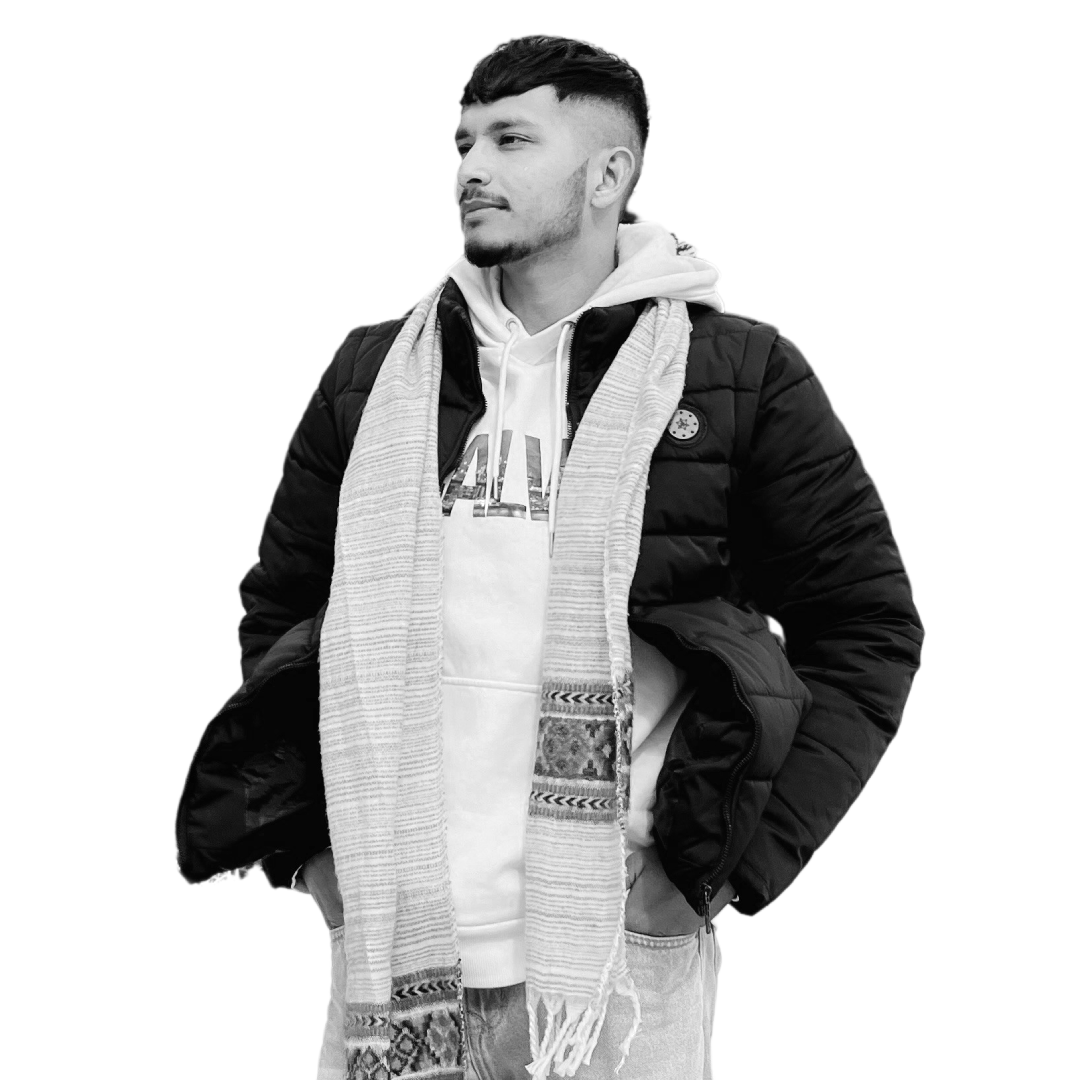
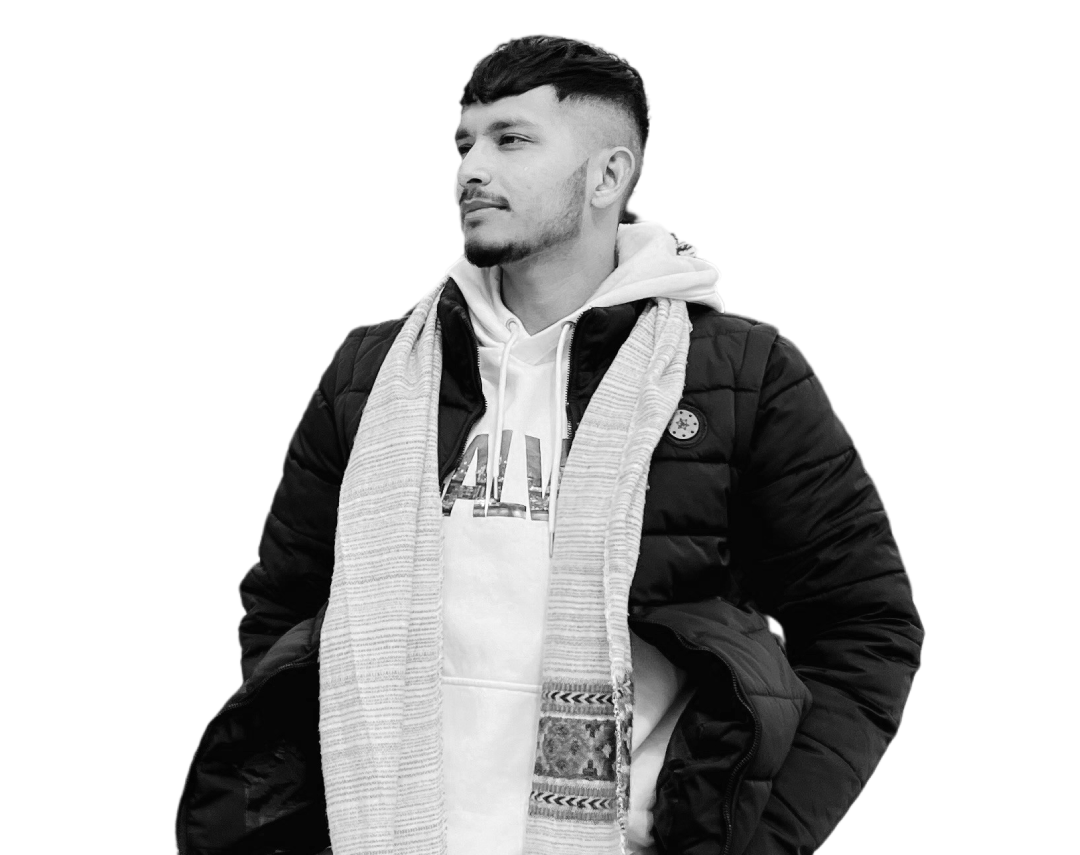
Desktop version ready

Changed region(s): [[0.1528, 0.0304, 0.8556, 1.0]]

diff --git a/webpage_portfolio.html b/webpage_portfolio.html
@@ -5,30 +5,41 @@
     <meta charset="UTF-8">
     <meta name="viewport" content="width=device-width, initial-scale=1.0">
     <link rel="stylesheet" href="style.css">
-    <link rel="stylesheet" href="">
+    <link rel="preconnect" href="https://fonts.googleapis.com">
+    <link rel="preconnect" href="https://fonts.gstatic.com" crossorigin>
+    <link href="https://fonts.googleapis.com/css2?family=PT+Sans:ital,wght@0,400;0,700;1,400&display=swap"
+        rel="stylesheet">
+    <link rel="preconnect" href="https://fonts.googleapis.com">
+    <link rel="preconnect" href="https://fonts.gstatic.com" crossorigin>
+    <link href="https://fonts.googleapis.com/css2?family=Work+Sans:ital,wght@0,600;0,800;1,600&display=swap"
+        rel="stylesheet">
     <title>Portfolio</title>
 </head>
 
 <body>
-    <nav class="main_nav">
-        <div class="logo">
-            <a href="#"><img src="images /Logo.png" alt="logo"></a>
-            <link rel="preconnect" href="https://fonts.googleapis.com">
-            <link rel="preconnect" href="https://fonts.gstatic.com" crossorigin>
-            <link href="https://fonts.googleapis.com/css2?family=PT+Sans:ital,wght@0,400;0,700;1,400&display=swap"
-                rel="stylesheet">
-            <span class="logo_name">Jacson</span>
-        </div>
-        <div class="main_links">
-            <a href="#">Work</a>
-            <a href="#">About</a>
-            <a href="#">Blog</a>
-            <a href="#">Contact</a>
-        </div>
-    </nav>
-    <section class="main">
-
+    <section class="navbar">
+        <nav class="main_nav">
+            <div class="logo">
+                <a href="#"><img src="images /Logo.png" alt="logo"></a>
+                <span class="logo_name">Jacson</span>
+            </div>
+            <div class="main_links">
+                <a href="#">Work</a>
+                <a href="#">About</a>
+                <a href="#">Blog</a>
+                <a href="#">Contact</a>
+            </div>
+        </nav>
     </section>
+
+    <section class="main">
+        <div class="main_heading">
+            <p>Web developer</p>
+        </div>
+    </section>
+    <div class="main_img">
+        <img src="images /MyProfile_bw.webp" alt="My_profile_pic">
+    </div>
 </body>
 
 </html>

diff --git a/style.css b/style.css
@@ -140,11 +140,10 @@ body {
     height: 100dvh;
     width: 100%;
     background-color: #0A0A0A;
-    display: flex;
-    justify-content: center;
 }
 
 nav {
+
     height: 40px;
     font-family: 'PT Sans', sans-serif;
     font-weight: 400;
@@ -163,10 +162,17 @@ nav {
 
 }
 
+
 .logo span {
     padding-left: 10px;
     color: #EDE4DF;
     text-align: center;
+}
+
+.navbar {
+    width: 100%;
+    display: flex;
+    justify-content: center;
 }
 
 .main_nav {
@@ -189,4 +195,32 @@ nav {
 .main_links a {
     text-decoration: none;
     color: white;
+}
+
+.main_heading {
+    font-family: 'Work Sans', sans-serif;
+    font-weight: 800;
+    color: #EDE4DF;
+    font-size: 4em;
+    padding: 40px 0;
+    text-transform: uppercase;
+}
+
+.main {
+    display: flex;
+    justify-content: center;
+
+}
+
+.main_img {
+    display: flex;
+    justify-content: center;
+    border-radius: 0 200px 200px 0;
+    background-image: url("bg.webp");
+}
+
+.main_img img {
+    width: 400px;
+    height: 400px;
+    object-fit: cover;
 }
